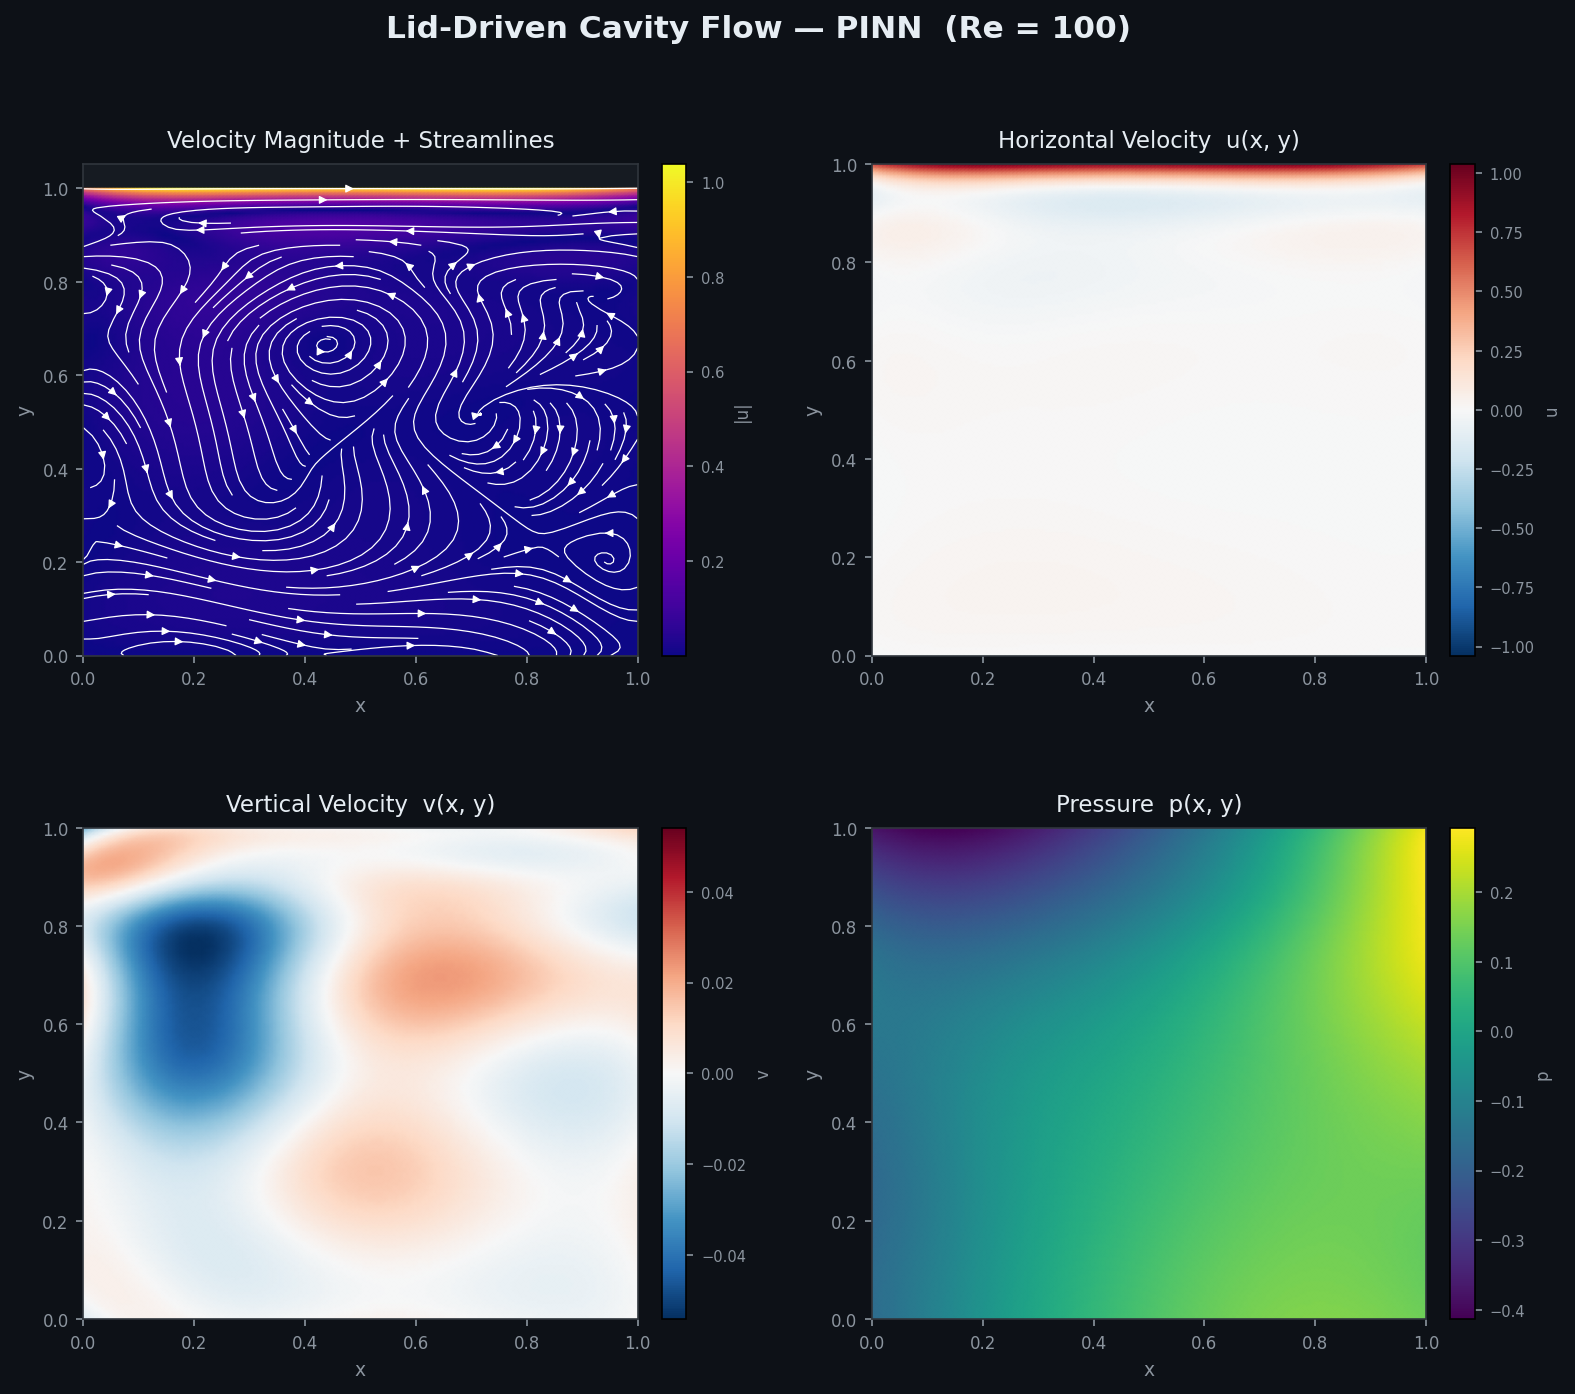
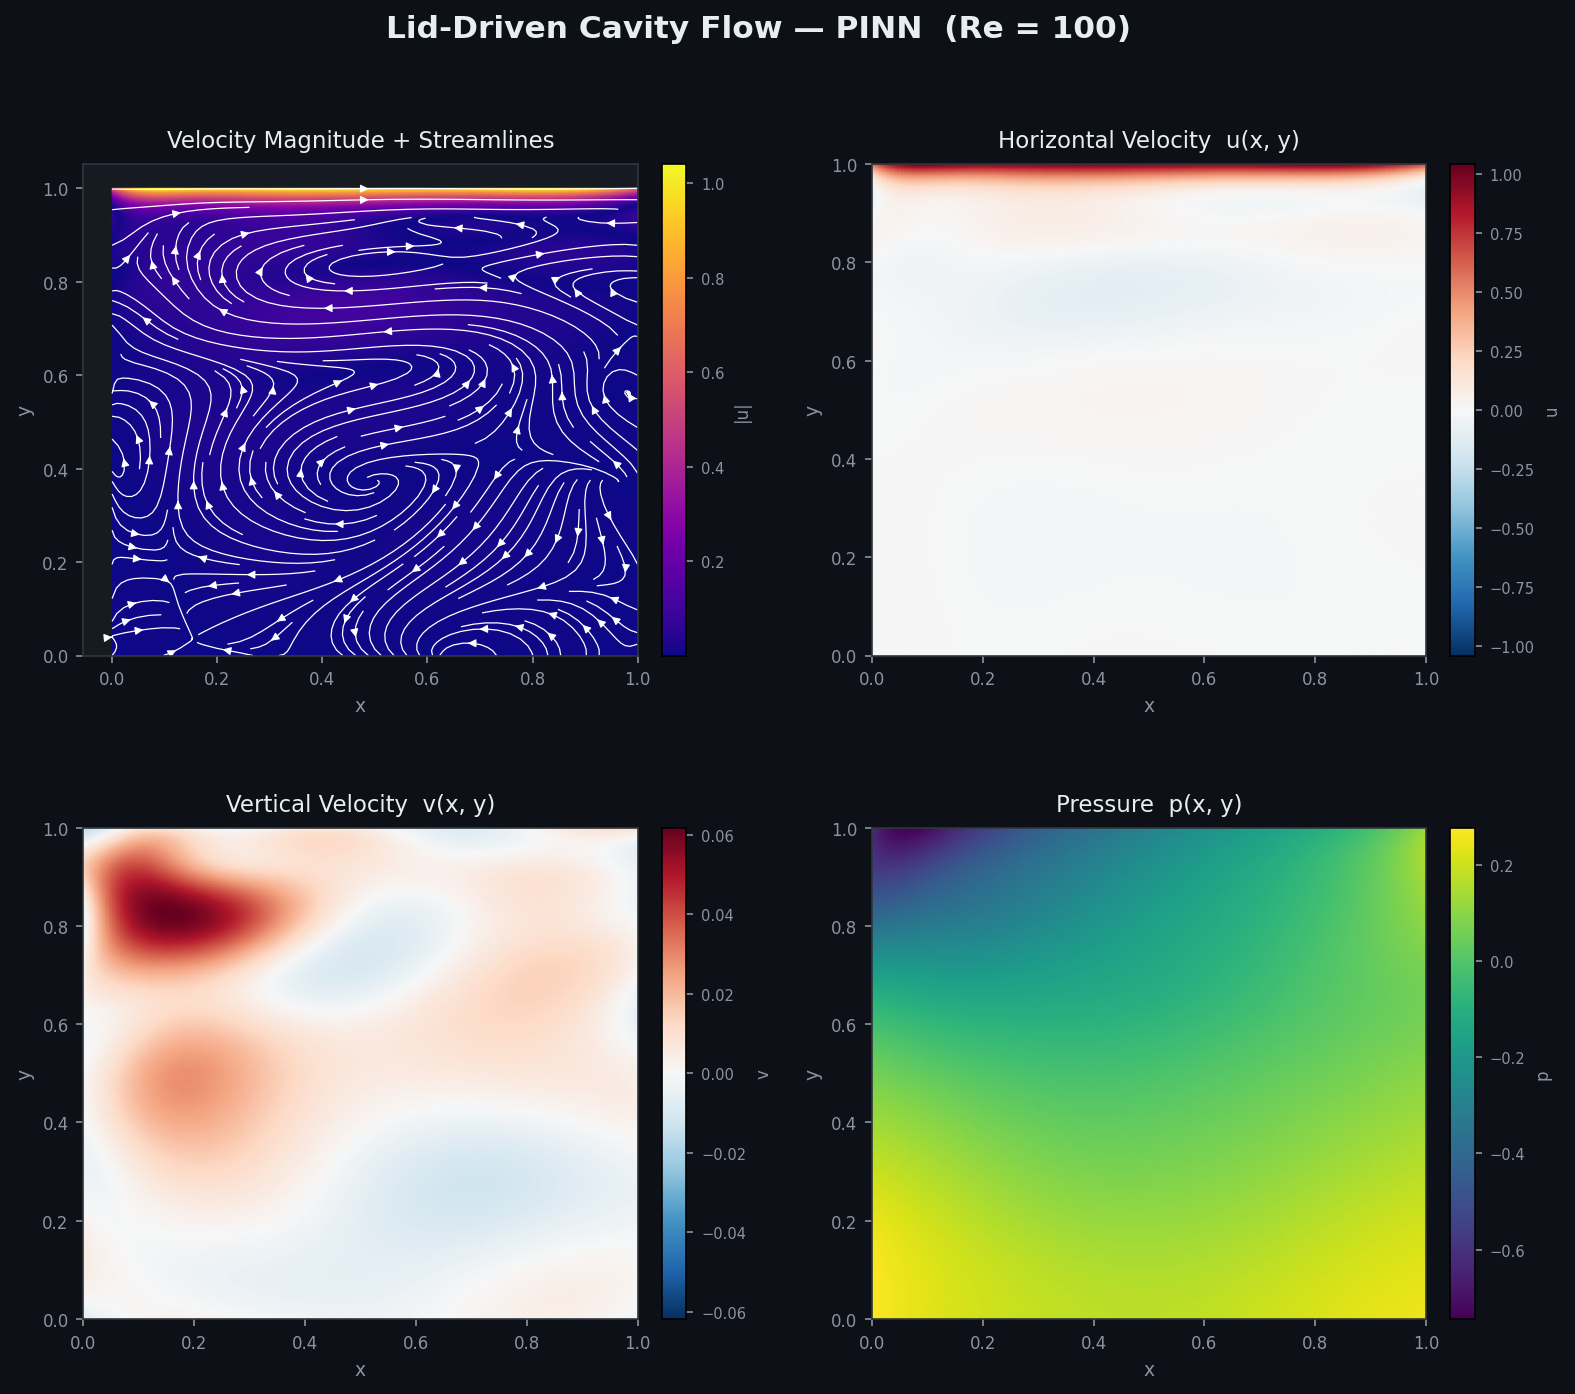
tweaked some parameters and lines

diff --git a/main.py b/main.py
@@ -1,5 +1,5 @@
 import torch
-from nspinn_src import PINN, train, evaluate_on_grid, plot_flow_field, plot_loss_history
+from src import PINN, train, evaluate_on_grid, plot_flow_field, plot_loss_history
 
 CONFIG = {
     "Re": 100.0,            # Reynolds number. Try 100 → 400 → 1000